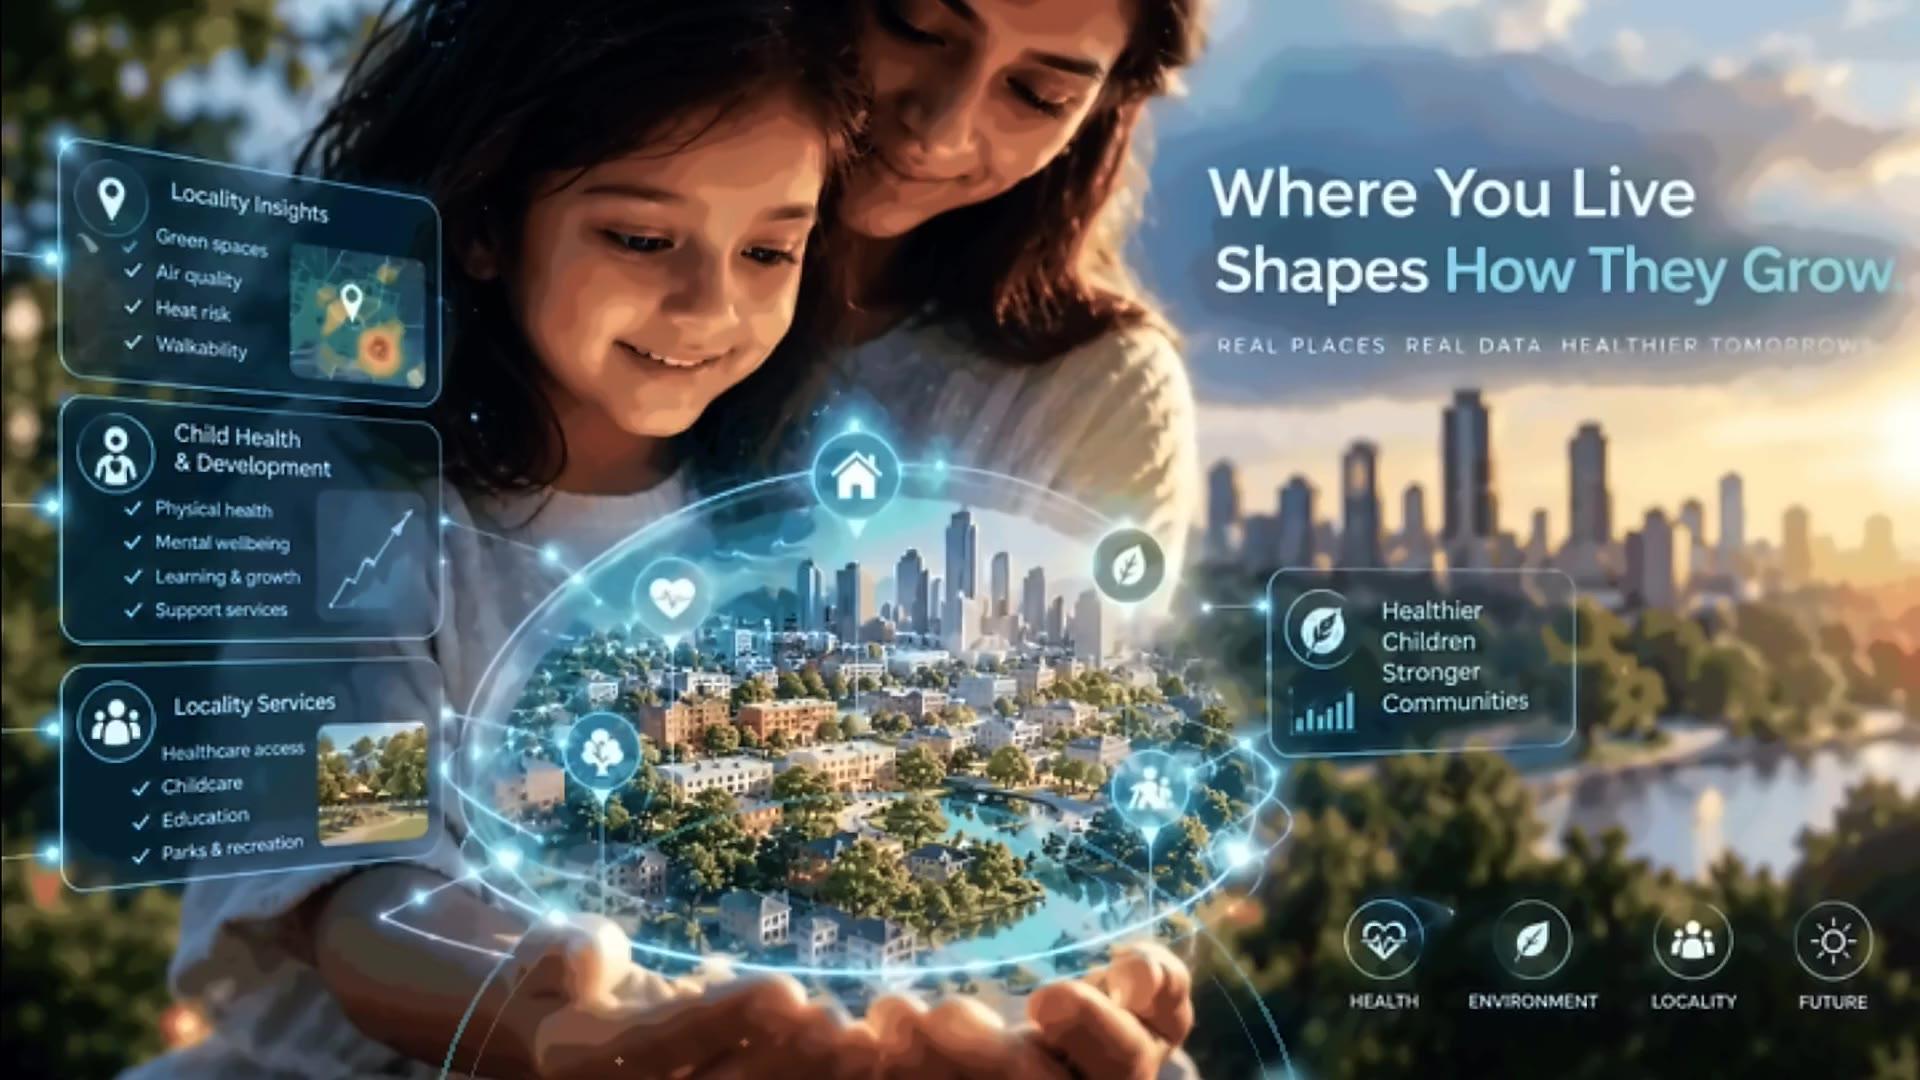
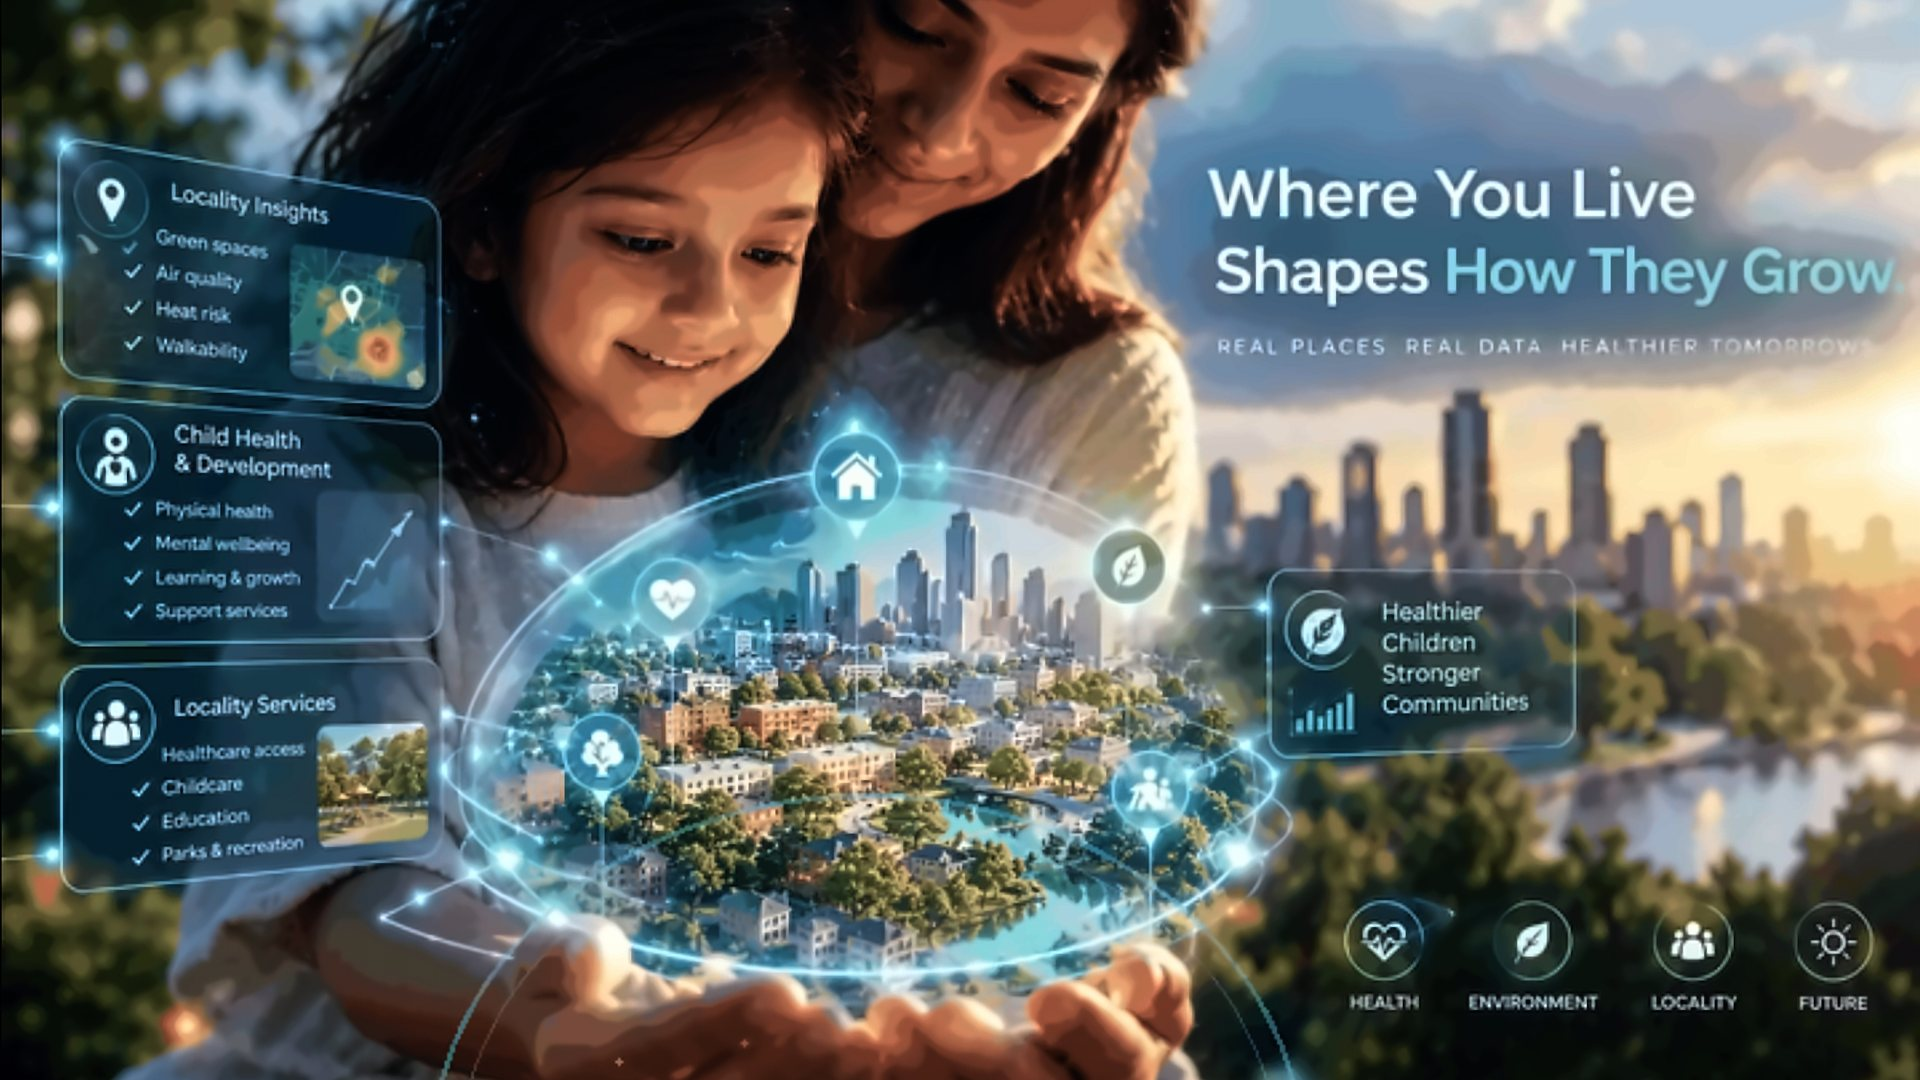
Home: show the opening image straight away while the tour film loads (preloaded poster and page background)

diff --git a/frontend/src/components/UserJourneyPage.css b/frontend/src/components/UserJourneyPage.css
@@ -1,7 +1,7 @@
 /* User Journey: full-screen background video with scroll-driven tour cards. The page is always
    dark over the footage, so its colours are fixed rather than theme tokens. */
 .uj-page { --uj-ink: #fff; --uj-ink2: rgba(255, 255, 255, .8); --uj-glass: rgba(14, 22, 40, .6); --uj-line: rgba(255, 255, 255, .2); --uj-accent: #f6b38a; --uj-accent2: #7fd6c8; min-height: 100vh; background: #0d1424; color: var(--uj-ink); font-family: Manrope, system-ui, -apple-system, 'Segoe UI', sans-serif }
-.uj-stage { position: fixed; inset: 0; z-index: 0; overflow: hidden; background: #0d1424 }
+.uj-stage { position: fixed; inset: 0; z-index: 0; overflow: hidden; background: #0d1424 url(/user-journey/journey_poster.jpg) center / cover no-repeat }
 .uj-stage video { position: absolute; inset: 0; width: 100%; height: 100%; object-fit: cover }
 .uj-shade { position: absolute; inset: 0; background: linear-gradient(90deg, rgba(9, 14, 28, .8) 0%, rgba(9, 14, 28, .45) 42%, rgba(9, 14, 28, .05) 75%), linear-gradient(0deg, rgba(9, 14, 28, .55), transparent 35%) }
 .uj-header { position: fixed; top: 0; left: 0; right: 0; z-index: 6 }

diff --git a/frontend/index.html b/frontend/index.html
@@ -16,6 +16,12 @@
     </script>
     <style>html[data-theme="dark"], html[data-theme="dark"] body { background: #091525; }</style>
     <meta name="description" content="Vkinder neighbourhood evidence explorer" />
+    <script>
+      // Home only: fetch the opening image first so it is on screen while the tour video loads.
+      if (location.pathname === '/' || location.pathname === '/user-journey') {
+        const l = document.createElement('link'); l.rel = 'preload'; l.as = 'image'; l.href = '/user-journey/journey_poster.jpg'; l.setAttribute('fetchpriority', 'high'); document.head.appendChild(l)
+      }
+    </script>
     <link rel="preconnect" href="https://fonts.googleapis.com" />
     <link rel="preconnect" href="https://fonts.gstatic.com" crossorigin />
     <link rel="stylesheet" href="https://fonts.googleapis.com/css2?family=Bricolage+Grotesque:opsz,wght@12..96,500;12..96,650;12..96,750&family=Manrope:wght@400;500;600;650;700;800&display=swap" />
